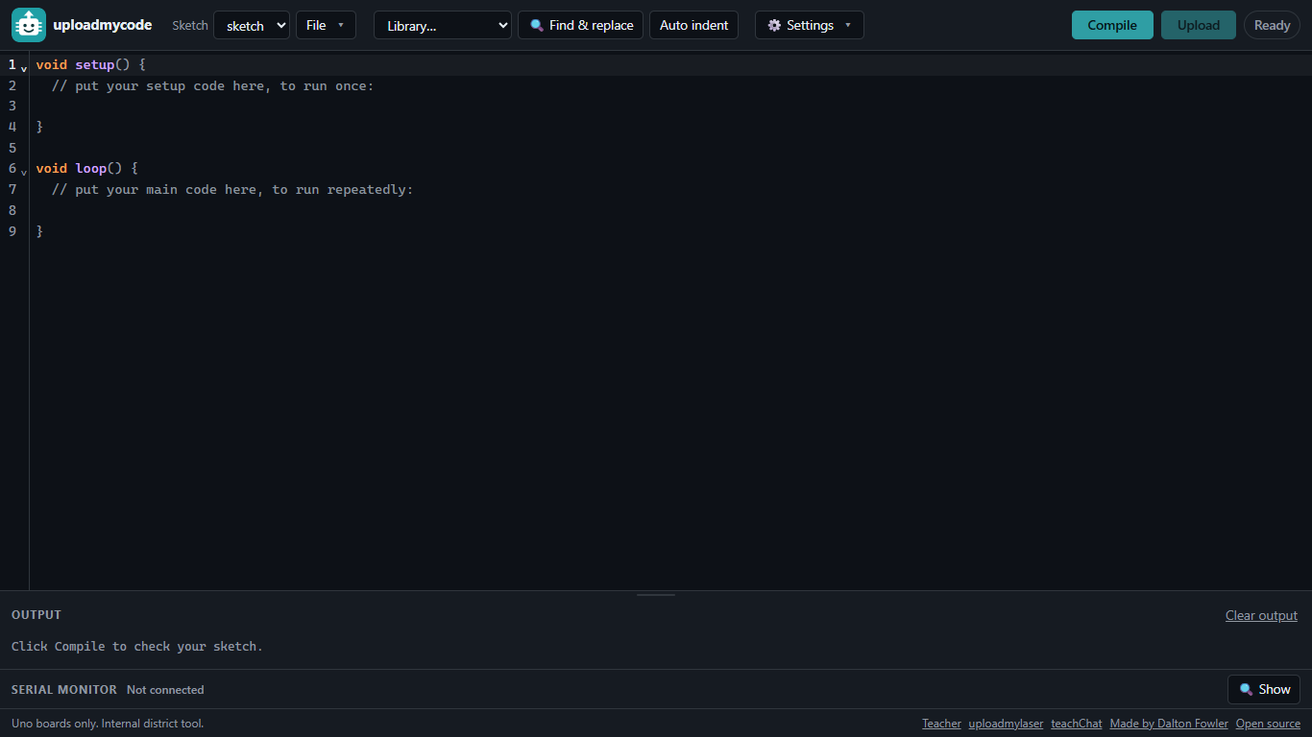
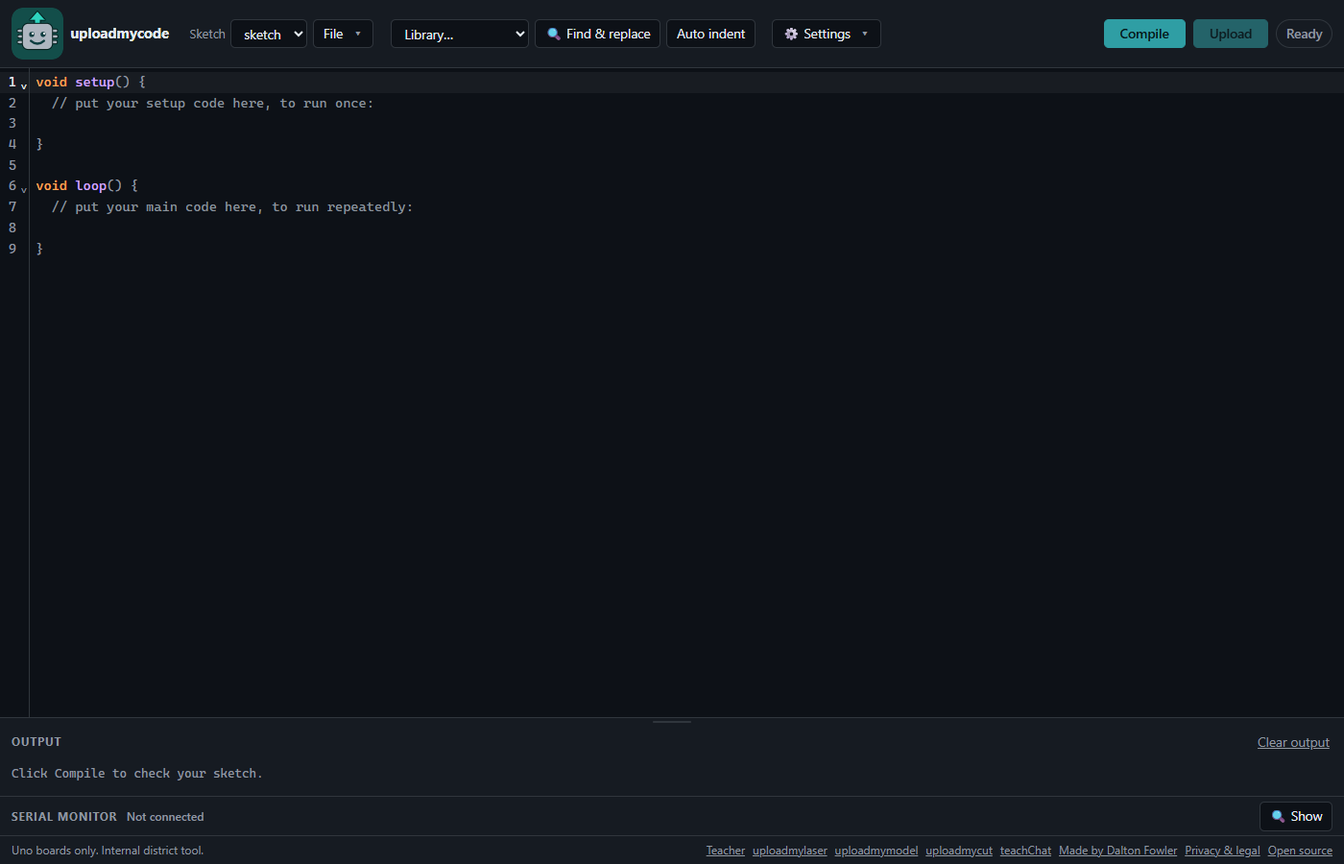
README and docs match today's app; privacy page says sketches are deleted after each compile
- README: Find and replace, Auto indent, theme, error hints, queue length,
  Plot view, Generate/any-length phrase, Pop out display, per-device lockout,
  sketch deleted after compile, /legal page; new dark screenshot.
- DEPLOY.md: the per-device lockout (it still said there was none).
- legal.html: the container deletes the sketch right after it compiles
  (since 3593afb), not when the server shuts down.
- Comments in teacher.js/display.js: the lockout is per device.
- public/: rebuilt output.

diff --git a/public/assets/index-L73X695a.css b/public/assets/index-L73X695a.css
@@ -1,0 +1,1 @@
+:root{--lightningcss-light:initial;--lightningcss-dark: ;color-scheme:light;--bg:#fff;--panel:#f3f4f6;--gutter-bg:#f3f4f6;--editor-bg:#fff;--fg:#14181d;--muted:#5b6570;--border:#d5dae0;--accent:#007b81;--accent-fg:#fff;--ok:#1a7f37;--danger:#b3261e;--warn:#8a6100;--selection:#b6dcff;--active-line:#14181d0d;--bracket:#d8e6f5;--error-line:#fdeceb;--tok-comment:#6e7781;--tok-keyword:#cf222e;--tok-type:#953800;--tok-number:#0550ae;--tok-string:#0a3069;--tok-function:#8250df;--tok-preproc:#116329;--tok-constant:#0550ae;--tok-punct:#57606a;--plot-1:#1a63c8;--plot-2:#b3261e;--plot-3:#1a7f37;--plot-4:#8250df;--plot-grid:#e6e9ee}:root[data-theme=dark]{--lightningcss-light: ;--lightningcss-dark:initial;color-scheme:dark;--bg:#0d1117;--panel:#161b22;--gutter-bg:#0d1117;--editor-bg:#0d1117;--fg:#e6edf3;--muted:#9198a1;--border:#30363d;--accent:#2f9ea4;--accent-fg:#04191b;--ok:#3fb950;--danger:#f85149;--warn:#d29922;--selection:#23405e;--active-line:#e6edf30d;--bracket:#26374a;--error-line:#2d1618;--tok-comment:#8b949e;--tok-keyword:#ff7b72;--tok-type:#ffa657;--tok-number:#79c0ff;--tok-string:#a5d6ff;--tok-function:#d2a8ff;--tok-preproc:#7ee787;--tok-constant:#79c0ff;--tok-punct:#9198a1;--plot-1:#58a6ff;--plot-2:#ff7b72;--plot-3:#3fb950;--plot-4:#d2a8ff;--plot-grid:#21262d}*{box-sizing:border-box}[hidden]{display:none!important}html{overflow:hidden auto}html,body{min-height:100%}body{background:var(--bg);color:var(--fg);margin:0;font:15px/1.45 system-ui,-apple-system,Segoe UI,Roboto,sans-serif}.app{flex-direction:column;min-height:100dvh;display:flex}.toolbar,.output,.monitor,.footer,.resize-handle{flex:none}.resize-handle{background:var(--panel);border-top:1px solid var(--border);cursor:row-resize;touch-action:none;justify-content:center;align-items:center;height:10px;display:flex}.resize-handle:after{content:"";background:var(--border);border-radius:1px;width:2.5rem;height:2px}.resize-handle:hover:after,.resize-handle:focus-visible:after,.resize-handle[data-dragging]:after{background:var(--accent)}.resize-handle:not([hidden])+.output,.resize-handle:not([hidden])+.monitor{border-top:none}body.resizing{cursor:row-resize;-webkit-user-select:none;user-select:none}@media (pointer:coarse){.resize-handle{height:14px}}.toolbar{background:var(--panel);border-bottom:1px solid var(--border);flex-wrap:wrap;align-items:center;gap:.4rem 1.1rem;padding:.5rem .75rem;display:flex}.tool-group{align-items:center;gap:.4rem;display:inline-flex}.menu-button:after{content:"▾";color:var(--muted);margin-left:.35rem}.menu-button[aria-expanded=true],#find[aria-expanded=true]{border-color:var(--accent);background:color-mix(in srgb, var(--accent) 14%, var(--bg))}.menu{min-width:12rem;max-width:calc(100vw - 32px);color:var(--fg);background:var(--bg);border:1px solid var(--border);border-radius:8px;margin:0;padding:.3rem;position:fixed;inset:auto;box-shadow:0 8px 24px #00000038}.menu:popover-open{flex-direction:column;gap:.1rem;display:flex}.menu>button{text-align:left;background:0 0;border-color:#0000;padding:.4rem .65rem}.menu>button:hover:not(:disabled){background:var(--panel);border-color:#0000}.menu>button.danger{color:var(--danger)}.menu hr{border:none;border-top:1px solid var(--border);margin:.25rem .3rem}.menu>.check,.menu-row{padding:.35rem .65rem}.menu-row{justify-content:space-between;align-items:center;gap:1rem;font-size:.85rem;display:flex}.run-group{align-items:center;gap:.4rem .5rem;margin-left:auto;display:flex}.brand{letter-spacing:-.01em;align-items:center;gap:.45rem;margin-right:.25rem;font-weight:700;display:inline-flex}.brand img{border-radius:12px}.grow{flex:auto}.field{color:var(--muted);align-items:center;gap:.3rem;font-size:.8rem;display:inline-flex}.check{white-space:nowrap;align-items:center;gap:.3rem;font-size:.85rem;display:inline-flex}button,select{font:inherit;color:var(--fg);background:var(--bg);border:1px solid var(--border);cursor:pointer;border-radius:5px;padding:.28rem .6rem;font-size:.85rem}select{max-width:12rem}#library-select{max-width:9rem}button:hover:not(:disabled),select:hover{border-color:var(--accent)}button:disabled{opacity:.55;cursor:default}button.primary{background:var(--accent);border-color:var(--accent);color:var(--accent-fg);padding-inline:1rem;font-weight:600}button.link{color:var(--muted);background:0 0;border:none;padding:.1rem .2rem;text-decoration:underline}:focus-visible{outline:2px solid var(--accent);outline-offset:1px}.status{border:1px solid var(--border);white-space:nowrap;border-radius:999px;padding:.28rem .6rem;font-size:.85rem;font-weight:600}.status[data-state=idle]{color:var(--muted)}.status[data-state=compiling],.status[data-state=uploading]{color:var(--warn);border-color:var(--warn)}.status[data-state=success]{color:var(--ok);border-color:var(--ok)}.status[data-state=error]{color:var(--danger);border-color:var(--danger)}.status[data-state=compiler-busy]{color:var(--warn);border-color:var(--warn)}.editor{background:var(--editor-bg);flex:1 1 0;min-height:12rem;overflow:hidden}.editor .cm-editor{height:100%}.editor .cm-scroller{overflow:auto}.output{height:var(--output-height,auto);max-height:var(--output-height,28vh);background:var(--panel);border-top:1px solid var(--border);flex-direction:column;display:flex;overflow:auto}.output-head{align-items:center;gap:.6rem;padding:.3rem .75rem;display:flex}.serial-help{color:var(--danger);font-size:.75rem}.output-head h2{letter-spacing:.06em;text-transform:uppercase;color:var(--muted);margin:0;font-size:.75rem;font-weight:700}.progress{align-items:center;gap:.6rem;padding:0 .75rem .4rem;display:flex}.progress progress{height:.6rem;accent-color:var(--accent);flex:auto}.progress-count{color:var(--muted);white-space:nowrap;font-family:ui-monospace,Cascadia Mono,Consolas,monospace;font-size:.75rem}.phrase-form{flex-wrap:wrap;align-items:center;gap:.35rem .5rem;padding:0 .75rem .4rem;display:flex}.phrase-label{color:var(--muted);font-size:.8rem}.phrase-form input[type=text]{min-width:0;max-width:22rem;height:2rem;font:inherit;color:var(--fg);background:var(--bg);border:1px solid var(--accent);border-radius:5px;flex:10rem;padding:0 .5rem;font-size:.95rem}.phrase-set{color:var(--muted);align-items:center;gap:.35rem;padding:0 .75rem .4rem;font-size:.8rem;display:flex}.phrase-set button{font-size:inherit}.error-list{flex-direction:column;flex:none;display:flex}.error-list:not(:empty){border-top:1px solid var(--border)}.error-row{text-align:left;border:none;border-bottom:1px solid var(--border);width:100%;color:var(--danger);background:0 0;border-radius:0;padding:.35rem .75rem;font-family:ui-monospace,Cascadia Mono,Consolas,monospace;font-size:.8rem;display:block}.error-row[data-severity=warning],.error-row[data-severity=note]{color:var(--muted)}.error-row:hover{background:var(--bracket);border-color:var(--border)}.error-row .where{margin-right:.4rem;font-weight:700}.error-said{display:block}.error-hint{color:var(--muted);margin-top:.15rem;padding-left:1.1rem;font-family:system-ui,-apple-system,Segoe UI,Roboto,sans-serif;font-size:.75rem;font-weight:400;display:block}.output-text{white-space:pre-wrap;word-break:break-word;min-height:2.5rem;color:var(--muted);flex:auto;margin:0;padding:.5rem .75rem;font-family:ui-monospace,Cascadia Mono,Consolas,monospace;font-size:.8rem}.output-text[data-tone=error]{color:var(--danger)}.output-text[data-tone=success]{color:var(--ok)}.monitor{background:var(--panel);border-top:1px solid var(--border);flex-direction:column;display:flex}.monitor-state{color:var(--muted);white-space:nowrap;font-size:.75rem;font-weight:600}.monitor-state[data-state=connected]{color:var(--ok)}.monitor-state[data-state=connecting],.monitor-state[data-state=paused]{color:var(--warn)}.monitor-body{flex-direction:column;min-height:0;display:flex}.monitor-controls,.monitor-send{flex-wrap:wrap;align-items:center;gap:.35rem .5rem;padding:0 .75rem .4rem;display:flex}.monitor-output{height:var(--monitor-log-height,clamp(4rem, 22vh, 14rem));background:var(--editor-bg);border-top:1px solid var(--border);border-bottom:1px solid var(--border);white-space:pre-wrap;word-break:break-word;color:var(--fg);margin:0;padding:.5rem .75rem;font-family:ui-monospace,Cascadia Mono,Consolas,monospace;font-size:.8rem;overflow:auto}.view-toggle{gap:0;display:inline-flex}.view-toggle button{white-space:nowrap;border-radius:0}.view-toggle button:first-child{border-radius:5px 0 0 5px}.view-toggle button:last-child{border-radius:0 5px 5px 0;margin-left:-1px}.view-toggle button[aria-pressed=true]{background:var(--accent);border-color:var(--accent);color:var(--accent-fg);font-weight:600;position:relative}.monitor-plot{height:var(--monitor-log-height,clamp(4rem, 22vh, 14rem));background:var(--editor-bg);border-top:1px solid var(--border);border-bottom:1px solid var(--border)}.monitor-plot canvas{width:100%;height:100%;display:block}.monitor-send{padding-top:.4rem}.monitor-send input[type=text]{min-width:0;font:inherit;color:var(--fg);background:var(--bg);border:1px solid var(--border);border-radius:5px;flex:12rem;padding:.28rem .5rem;font-size:.85rem}.monitor-send input[type=text]:disabled{opacity:.55}.footer{background:var(--panel);border-top:1px solid var(--border);color:var(--muted);flex-wrap:wrap;justify-content:space-between;align-items:center;gap:.5rem;padding:.35rem .75rem;font-size:.75rem;display:flex}.footer a{color:var(--muted);text-decoration:underline}.footer a:hover{color:var(--accent)}@media (width<=640px){.brand img{border-radius:9px;width:42px;height:42px}.field span{display:none}.toolbar{column-gap:.6rem}.toolbar button{white-space:nowrap}.tool-group{flex-wrap:wrap}#library-select{max-width:6rem}}@media (pointer:coarse){button,select,.monitor-send input[type=text],.cm-find .cm-textfield,.check{min-height:2.5rem}button{min-width:2.5rem}.phrase-form input[type=text]{height:2.5rem}}

diff --git a/public/legal.html b/public/legal.html
@@ -44,7 +44,7 @@
   <h2>Privacy</h2>
   <ul>
     <li>Your code leaves this computer only when you press <strong>Compile</strong> or <strong>Auto indent</strong>. The site never asks for your name.</li>
-    <li><strong>Compile</strong> sends your code to the compile server. The server writes it to a working file, builds it, and sends back the program or the error messages. That working file and the built program are not deleted straight away: the next compile overwrites them, and they are wiped when the server shuts down, about 5 minutes after its last compile. Your code is not saved anywhere else and is not written to the server's logs.</li>
+    <li><strong>Compile</strong> sends your code to the compile server. The server writes it to a working file, builds it, and sends back the program or the error messages. That working file and the built program are deleted as soon as the compile finishes. Your code is not saved anywhere else and is not written to the server's logs.</li>
     <li><strong>Auto indent</strong> sends your code to the same server, which tidies it in memory and sends it back without writing it to disk. If tidying fails, the first part of the tool's error message goes into the server log, and that message can quote a line of your code.</li>
     <li>The class phrase the teacher sets is kept on the server, with the time it ends, until it runs out (12 hours at most) or the teacher ends it. Nothing else about the class is kept there.</li>
     <li>To share the compiler fairly, the server counts each browser's compiles for one minute, using a random id the browser made (or the network address if there is no id). Those counts are held in memory only and never saved.</li>

diff --git a/web/public/legal.html b/web/public/legal.html
@@ -44,7 +44,7 @@
   <h2>Privacy</h2>
   <ul>
     <li>Your code leaves this computer only when you press <strong>Compile</strong> or <strong>Auto indent</strong>. The site never asks for your name.</li>
-    <li><strong>Compile</strong> sends your code to the compile server. The server writes it to a working file, builds it, and sends back the program or the error messages. That working file and the built program are not deleted straight away: the next compile overwrites them, and they are wiped when the server shuts down, about 5 minutes after its last compile. Your code is not saved anywhere else and is not written to the server's logs.</li>
+    <li><strong>Compile</strong> sends your code to the compile server. The server writes it to a working file, builds it, and sends back the program or the error messages. That working file and the built program are deleted as soon as the compile finishes. Your code is not saved anywhere else and is not written to the server's logs.</li>
     <li><strong>Auto indent</strong> sends your code to the same server, which tidies it in memory and sends it back without writing it to disk. If tidying fails, the first part of the tool's error message goes into the server log, and that message can quote a line of your code.</li>
     <li>The class phrase the teacher sets is kept on the server, with the time it ends, until it runs out (12 hours at most) or the teacher ends it. Nothing else about the class is kept there.</li>
     <li>To share the compiler fairly, the server counts each browser's compiles for one minute, using a random id the browser made (or the network address if there is no id). Those counts are held in memory only and never saved.</li>

diff --git a/public/display.js b/public/display.js
@@ -7,7 +7,7 @@
 	/* Five seconds. A GET with the right key is never rate limited: see the
 	   teacher gate in src/worker.ts, where a correct key is compared first and
 	   nothing is counted for it. The one exception is the short wrong-key
-	   lockout on this address (at most 300 s), which apply() rides out. */
+	   lockout on this device (at most 300 s), which apply() rides out. */
 	var POLL_MS = 5000;
 
 	var body = document.body;
@@ -36,7 +36,7 @@
 	/* One request at a time, so a slow answer cannot stack up behind the timer. */
 	var polling = false;
 	/* A key the Worker refused. Not sent again: a projector re-sending a wrong
-	   key every five seconds would keep the school's address in the wrong-key
+	   key every five seconds would keep this device in the wrong-key
 	   lockout (src/lockout.ts) and hold the teacher page out with it. A new
 	   key saved on the teacher page is different, so polling resumes. */
 	var refusedKey = "";
@@ -184,7 +184,7 @@
 		 * which a correct key never meets, so it means the same thing here. Both
 		 * are fixed on the teacher page and nowhere else, so both say so.
 		 */
-		/* The short per-address lockout refuses even a right key until its wait
+		/* The short per-device lockout refuses even a right key until its wait
 		   ends, so it says nothing about the key. Keep what is on screen and
 		   try again on the next poll. */
 		if (result.status === 429 && result.body && result.body.error === "locked") {

diff --git a/web/public/display.js b/web/public/display.js
@@ -7,7 +7,7 @@
 	/* Five seconds. A GET with the right key is never rate limited: see the
 	   teacher gate in src/worker.ts, where a correct key is compared first and
 	   nothing is counted for it. The one exception is the short wrong-key
-	   lockout on this address (at most 300 s), which apply() rides out. */
+	   lockout on this device (at most 300 s), which apply() rides out. */
 	var POLL_MS = 5000;
 
 	var body = document.body;
@@ -36,7 +36,7 @@
 	/* One request at a time, so a slow answer cannot stack up behind the timer. */
 	var polling = false;
 	/* A key the Worker refused. Not sent again: a projector re-sending a wrong
-	   key every five seconds would keep the school's address in the wrong-key
+	   key every five seconds would keep this device in the wrong-key
 	   lockout (src/lockout.ts) and hold the teacher page out with it. A new
 	   key saved on the teacher page is different, so polling resumes. */
 	var refusedKey = "";
@@ -184,7 +184,7 @@
 		 * which a correct key never meets, so it means the same thing here. Both
 		 * are fixed on the teacher page and nowhere else, so both say so.
 		 */
-		/* The short per-address lockout refuses even a right key until its wait
+		/* The short per-device lockout refuses even a right key until its wait
 		   ends, so it says nothing about the key. Keep what is on screen and
 		   try again on the next poll. */
 		if (result.status === 429 && result.body && result.body.error === "locked") {

diff --git a/public/index.html b/public/index.html
@@ -14,8 +14,8 @@
     <!-- Blocking on purpose: sets data-theme before the first paint. -->
     <script src="/theme-boot.js"></script>
   <script src="/logo-alive.js" defer></script>
-  <script type="module" crossorigin src="/assets/index-eb_hOV0e.js"></script>
-  <link rel="stylesheet" crossorigin href="/assets/index-R1QW8b-W.css">
+  <script type="module" crossorigin src="/assets/index-BBOxntyI.js"></script>
+  <link rel="stylesheet" crossorigin href="/assets/index-L73X695a.css">
 </head>
 	<body>
 		<div class="app">
@@ -23,7 +23,7 @@
 			     tools that change the text, Settings, and the run group. The sketch
 			     file actions and the preferences live in the two menus below. -->
 			<header class="toolbar">
-				<span class="brand"><img src="/icon.svg" data-logo alt="" width="72" height="72">uploadmycode</span>
+				<span class="brand"><img src="/icon.svg" data-logo alt="" width="54" height="54">uploadmycode</span>
 
 				<div class="tool-group">
 					<label class="field">

diff --git a/public/teacher.js b/public/teacher.js
@@ -31,7 +31,7 @@
 	 * key in the box is wrong, not that you are locked out.
 	 */
 	function busyText(body) {
-		// The short per-address lockout after five wrong keys in a row. Unlike
+		// The short per-device lockout after five wrong keys in a row. Unlike
 		// the site-wide guard, this one refuses even the right key until the
 		// wait is over, and its sentence says how long.
 		if (body && body.error === "locked" && typeof body.message === "string") {

diff --git a/web/public/teacher.js b/web/public/teacher.js
@@ -31,7 +31,7 @@
 	 * key in the box is wrong, not that you are locked out.
 	 */
 	function busyText(body) {
-		// The short per-address lockout after five wrong keys in a row. Unlike
+		// The short per-device lockout after five wrong keys in a row. Unlike
 		// the site-wide guard, this one refuses even the right key until the
 		// wait is over, and its sentence says how long.
 		if (body && body.error === "locked" && typeof body.message === "string") {

diff --git a/README.md b/README.md
@@ -14,40 +14,53 @@ same tool on every desk in under a minute.
 
 ## Screenshot
 
-<img src="docs/screenshot-editor.png" width="800" alt="The editor page at Chromebook size: a one-row toolbar with the sketch dropdown and a File menu, a library dropdown, Find and replace, Auto indent and a Settings menu; Compile and Upload buttons; a CodeMirror editor holding the default setup and loop sketch; an output panel; and a collapsed serial monitor">
+<img src="docs/screenshot-editor.png" width="800" alt="The editor page in the dark theme: a one-row toolbar with the robot logo, the sketch dropdown and a File menu, a library dropdown, Find and replace, Auto indent and a Settings menu; Compile and Upload buttons; a CodeMirror editor holding the default setup and loop sketch; an output panel; a collapsed serial monitor; and a footer with the Teacher, Privacy and legal, and Open source links">
 
-The editor page at Chromebook resolution (1366x768), before any sketch is compiled. Compile and Upload sit top right, the output panel and serial monitor sit below the editor.
+The editor page on the live site (1400x900, dark theme), before any sketch is compiled. Compile and Upload sit top right, the output panel and serial monitor sit below the editor.
 
 ## What it does
 
-- **Editor** — CodeMirror 6 with C++ highlighting, autocomplete for the common board API, and a
-  library dropdown that inserts the right `#include`.
+- **Editor** — CodeMirror 6 with C++ highlighting, autocomplete for the common board API, a
+  library dropdown that inserts the right `#include`, Find and replace, and an **Auto indent**
+  button that tidies the sketch with `clang-format` in the container. Light, dark or system theme.
 - **Compile** — one POST to the server. Compiler errors come back parsed: a clickable row that
-  jumps to the line, and the offending line highlighted in the editor.
+  jumps to the line, the offending line highlighted in the editor, and a plain-English hint under
+  the common ones. When the class compiles at once, the output panel says how many sketches are
+  in the line.
 - **Upload** — the browser flashes the board itself over Web Serial (STK500v1 against the Optiboot
   bootloader, 115200 baud), with a page-by-page progress bar. Upload is only enabled for hex that
   was built from the exact text on screen.
-- **Serial monitor** — nine baud rates, autoscroll, timestamps, a send box. It hands the port to
-  the flasher when an upload starts and takes it back afterwards, so a student never has to
-  disconnect anything.
+- **Serial monitor** — nine baud rates, autoscroll, timestamps, a send box, and a **Plot** view
+  that graphs the numbers as they arrive. It hands the port to the flasher when an upload starts
+  and takes it back afterwards, so a student never has to disconnect anything.
 - **Sketches** — named, autosaved to `localStorage`, downloadable and importable as `.ino`. No
   server-side storage, no student accounts, no PII.
 - **A rolling class phrase** — the teacher sets today's phrase, with an expiry, from a `/teacher`
-  page guarded by a secret. Nobody compiles without it. Students type it once per tab and it dies
-  with the tab.
+  page guarded by a secret. **Generate** makes a long random one, or the teacher types any phrase
+  up to 64 characters. **Pop out** opens a `/display` window with just the phrase and its
+  countdown, for the projector. Nobody compiles without the phrase. Students type it once per tab
+  and it dies with the tab.
+- **Wrong-guess lockout, per device** — five wrong phrases in a row lock that one Chromebook for
+  5 seconds, doubling to at most 5 minutes. The teacher key has its own counter with the same
+  numbers. It counts per device, never per address, because a whole school shares one address:
+  one student can never lock out the room or the teacher.
 - **Cost caps** — two small container instances (the second wakes only during a burst and sleeps
   again), scale-to-zero, a per-browser rate limit, a global ceiling, a request-size cap, a cap
-  on how many compiles may wait, and a compile timeout with memory and CPU limits. All of it so a
-  runaway loop cannot run up a bill overnight, or stall the class.
+  on how many compiles may wait, and a compile timeout with memory and CPU limits. Each sketch is
+  deleted from the container once it has compiled. All of it so a runaway loop cannot run up a
+  bill overnight, or stall the class.
 - **Libraries** — a fixed allowlist baked into the container image, so a compile never touches the
   network. Servo, LiquidCrystal, LiquidCrystal I2C, Stepper and Arduino SensorKit (the Seeed Grove
   sensor kit) ship by default. The SensorKit's own dependencies, DHT20 and the LIS3DHTR
   accelerometer, are pinned and baked in alongside it.
+- **Privacy and legal** — a `/legal` page, linked from every footer, says what the site keeps, where
+  and for how long, and who made it. Sketches stay in the browser; there are no accounts.
 
 ## The live site
 
-<https://uploadmycode.com> is the author's own instance, for one teacher's classes. It is not a
-public service: every compile needs that day's class phrase, so the site will look broken to anyone
+<https://uploadmycode.com> is the author's own instance. It is an internal district tool made by
+[Dalton Fowler](https://daltonjfowler.com), a teacher, for use in class. It is not a public
+service: every compile needs that day's class phrase, so the site will look broken to anyone
 who is not in the room. It is up here as a working reference, not as something to sign up for.
 
 **To use this, run your own copy.** [docs/SETUP.md](docs/SETUP.md) walks a stranger through it end
@@ -71,10 +84,10 @@ npm run deploy      # npm run build, then wrangler deploy (needs Docker running)
 ## Running the compile server without Docker
 
 `container/server.js` is the same file the image runs, and it runs directly on Windows. Useful for
-frontend work: `npm run dev:web` proxies `/api/compile` to it. Nothing here is committed: `tools/`
-(`/api/format` proxies here too; Auto indent needs `clang-format` on PATH locally — without it only
-formatting fails, compiles are unaffected.)
-is gitignored, and the versions must match the pins at the top of `container/Dockerfile`.
+frontend work: `npm run dev:web` proxies `/api/compile` and `/api/format` to it. Auto indent needs
+`clang-format` on PATH locally; without it only formatting fails, and compiles are unaffected.
+Nothing here is committed: `tools/` is gitignored, and the versions must match the pins at the top
+of `container/Dockerfile`.
 
 ```powershell
 $tools = "$PWD\tools"
@@ -112,8 +125,8 @@ setup: see [docs/SETUP.md](docs/SETUP.md), Part B.
 
 - [docs/SETUP.md](docs/SETUP.md) — **run your own copy.** Start here if this repo is new to you.
 - [docs/DEPLOY.md](docs/DEPLOY.md) — the operator manual for the author's live instance: the daily
-  phrase routine, the teacher key, what guards a compile, adding a library, `ALLOWED_CIDRS`, cost
-  caps and billing alerts. Most of it applies to any instance.
+  phrase routine, the teacher key, what guards a compile (including the per-device lockout),
+  adding a library, `ALLOWED_CIDRS`, cost caps and billing alerts. Most of it applies to any instance.
 - [PLAN.md](PLAN.md) — architecture, the locked decisions, and the task list the project was built
   from. Read it before changing anything structural.
 - [CREDITS.md](CREDITS.md) — every open-source project this tool is built on, with links, verified

diff --git a/docs/DEPLOY.md b/docs/DEPLOY.md
@@ -50,6 +50,8 @@ and a Chromebook that goes back in the cart carries nothing into tomorrow.
 |---|---|
 | No class phrase is active. Ask your teacher. | Nothing is set, or it expired. Set one. |
 | Wrong class phrase. Ask your teacher for today's phrase. | Typo, or yesterday's phrase in a tab that was never closed. Retype it. |
+| Too many wrong tries. Wait N seconds and try again. | That Chromebook typed a wrong phrase five times in a row. Only that one is locked, for 5 seconds at first and never more than 5 minutes (section 4a). Wait, then type the right phrase. |
+| That is a lot of tries from your network in one minute… | The whole school sent more than 120 phrase-carrying requests in a minute. Clears within a minute. |
 | That is a lot of compiles in one minute. Wait N seconds… | That Chromebook has compiled six times in a minute. Wait. |
 | That is a lot of tidying in one minute. Wait a moment… | That Chromebook has pressed **Auto indent** twelve times in a minute. Their compiles are untouched. |
 | The compiler is very busy right now. Wait a minute… | The whole site is at its ceiling of 120 compiles a minute. Rare; wait. |
@@ -218,6 +220,10 @@ step 5 differs, and only in which bucket it spends and what the 429 says (sectio
    its public address: 120 a minute, then 429 "That is a lot of tries from your network in one
    minute" *before the phrase is compared*. 120 is exactly the global ceiling in step 6, on
    purpose (section 4a).
+
+   Then the **per-device lockout** (step 3b in `src/compile-gate.ts`): a device that has sent five
+   wrong phrases in a row is refused with a 429 for a few seconds, before its phrase is compared
+   (section 4a).
 4. **Class phrase.** Read from KV, compared in constant time after both sides are normalized.
    Missing or expired → 403 "No class phrase is active"; wrong → 403 "Wrong class phrase". A wrong
    phrase is never delayed and never spends anybody's compiles (section 4a).
@@ -253,7 +259,8 @@ There used to be per-IP lockouts here: ten wrong phrases in ten minutes locked t
 compiling, five wrong teacher keys locked it out of `/teacher.html`. On paper they slowed a
 guesser down. In a classroom they handed one bored student a switch that turns off compiling for
 thirty classmates — or locks the teacher out of his own phrase page — in about fifteen clicks. They
-are gone. Do not put them back.
+are gone. Do not put them back per IP. The short lockout that came back later counts per
+*device*, so one student can only lock their own Chromebook (below).
 
 Very little was bought by them anyway:
 
@@ -317,17 +324,19 @@ and never be locked; the per-IP phrase brake above is what slows scripts.
 | Guard | Limit | Then | Message |
 |---|---|---|---|
 | Wrong class phrase | none of its own | 403, straight away | "Wrong class phrase. Ask your teacher for today's phrase." |
+| Wrong class phrases in a row, per device | 5 | 429 for 5 s, doubling each further wrong try to at most 300 s, before the phrase is compared | "Too many wrong tries. Wait N seconds and try again." |
 | Phrase-carrying requests, per public address | 120 per minute, right and wrong alike | 429 for up to a minute, before the phrase is compared | "That is a lot of tries from your network in one minute. Wait a minute and try again." |
-| Wrong teacher key | none, per person | 403 after a fixed 300 ms | "Wrong teacher key." |
+| Wrong teacher key | none of its own | 403 after a fixed 300 ms | "Wrong teacher key." |
+| Wrong teacher keys in a row, per device | 5 | 429 for 5 s, doubling to at most 300 s, before the key is compared | "Too many wrong tries. Wait N seconds and try again." |
 | Wrong teacher keys, everywhere | more than 100 in 15 minutes | wrong keys get 429 for 15 minutes — **a correct key still gets in** | "Too many wrong keys from everywhere right now. Try again in N minutes. The right key still works." |
 | Compiles, per client id | 6 per minute | 429 until the window slides | "That is a lot of compiles in one minute. Wait N seconds…" |
 | **Auto indent (`/api/format`), per client id** | **12 per minute** | 429 until the window slides | "That is a lot of tidying in one minute. Wait a moment and try again." |
 | Requests to either endpoint, everyone | 120 per minute | 429 until the window slides | "The compiler is very busy right now. Wait a minute and try again." |
 | Compiles in flight, everyone | 40 at once | 503 until one finishes | "The compiler is very busy. Try again in a minute." |
 
-Every 429 carries `Retry-After` in seconds, and so does the 503. There is no `x-lockout` header any
-more: a 429 from `/api/compile` is always about pace, never about whether the phrase was right, so
-the editor never has to tell two kinds of 429 apart.
+Every 429 carries `Retry-After` in seconds, and so does the 503. There is no `x-lockout` header.
+A device lockout is the one 429 that is about wrong answers rather than pace, and its body says so
+with `"error": "locked"` and a ready-made `message`, which the editor shows as it is.
 
 **The per-client limit.** The editor mints one random id the first time it is used
 (`crypto.randomUUID()`), keeps it in `localStorage` under `uno-ide.v1.client-id`, and sends it
@@ -368,11 +377,11 @@ reach.
 
 **If a class cannot compile, the phrase is almost always what is wrong.** Set it again from
 `/teacher.html`. The only other thing that can hold the room up is the per-address brake, and it
-clears itself within a minute: there is no lockout to wait out and no counter that needs forgiving.
+clears itself within a minute. The per-device lockout holds up one Chromebook, never the room, for
+at most 5 minutes; typing the right phrase once it ends clears its counter.
 
-All of it except the per-address brake is counted in the `Counters` Durable Object — one named
-instance every request shares —
-which makes the counts site-wide rather than per Worker isolate. It is deliberately *not* the
+All of it except the per-address brake and the per-device lockout is counted in the `Counters`
+Durable Object — one named instance every request shares — which makes the counts site-wide rather than per Worker isolate. It is deliberately *not* the
 compile container's object; section 7 explains why that mattered to the bill. Nothing is written to
 storage: if that object is ever evicted the counts reset, which is an acceptable trade for a fuse.
 

diff --git a/docs/SETUP.md b/docs/SETUP.md
@@ -192,7 +192,8 @@ If all five pass, you have a working instance.
 Optional, but the defaults are the author's:
 
 - The footer of the editor (`web/index.html`) and the diagnostics page
-  (`web/public/serial-test.html`) say "Internal district tool" and link to the author's site. Edit
+  (`web/public/serial-test.html`) say "Internal district tool" and link to the author's site, and
+  the privacy page (`web/public/legal.html`) names the author as the person to contact. Edit
   those, then `npm run build` and deploy again.
 - `public/` is build output and is committed to the repo, which is what `wrangler deploy` uploads.
   Always `npm run build` after touching anything in `web/`, or you will deploy the old page.
